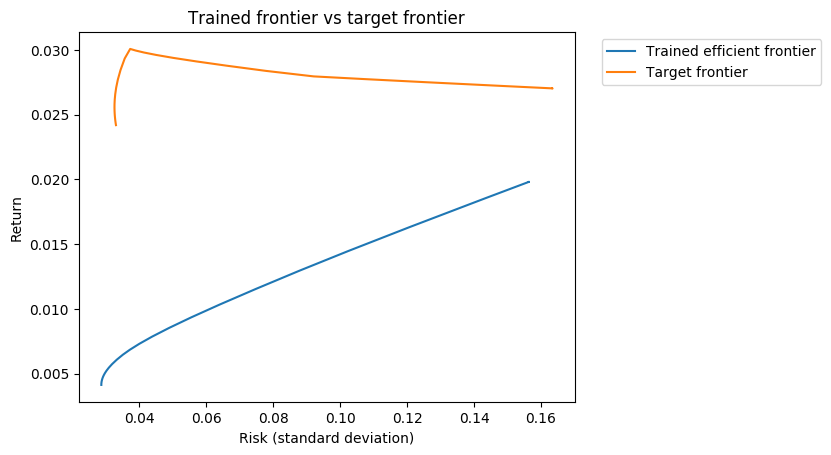
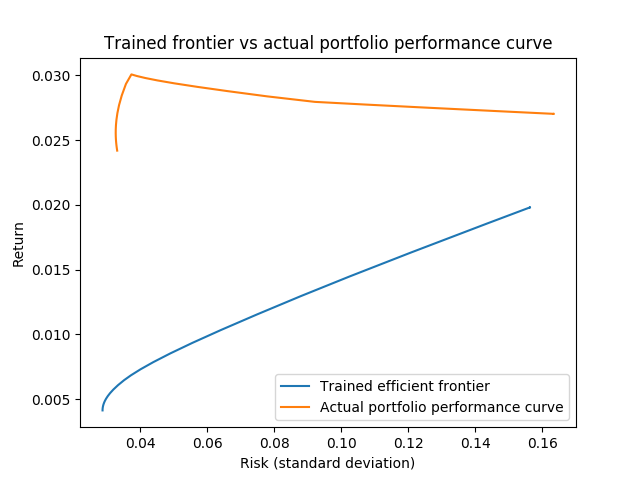
correction

diff --git a/plots/efficient_frontier.py b/plots/efficient_frontier.py
@@ -132,17 +132,17 @@ def other_data():
 
 from build_example_data import build_example_ml_return_data
 def ml_plot():
-	data, target = build_example_ml_return_data()
+	data, test = build_example_ml_return_data()
 	portfolios = solve(data)
 	returns, risks = fit(data, portfolios)
-	returns_target, risks_target = fit(target, portfolios)
+	returns_test, risks_test = fit(test, portfolios)
 	fig = plt.figure()
 	ax = plt.subplot(111)
-	ax.set_title('Trained frontier vs target frontier')
+	ax.set_title('Trained frontier vs actual portfolio performance curve')
 	ax.set_xlabel('Risk (standard deviation)')
 	ax.set_ylabel('Return')
 	ax.plot(risks, returns, label='Trained efficient frontier')
-	ax.plot(risks_target, returns_target, label='Target frontier')
+	ax.plot(risks_test, returns_test, label='Actual portfolio performance curve')
 	#lgd = plot_legend(ax)
 	# presentation
 	#fig.savefig('ml_image_output.png', format='png', bbox_extra_artists=(lgd,), bbox_inches='tight')

diff --git a/plots/build_example_data.py b/plots/build_example_data.py
@@ -26,8 +26,8 @@ def build_example_ml_return_data():
 			data = np.array([r])
 		else:
 			data = np.append(data, [r], axis=0)
-	target = data[:,-12:]
-	return data[:,:-12], target
+	test = data[:,-12:]
+	return data[:,:-12], test
 
 def main():
 	data = build_example_return_data()
